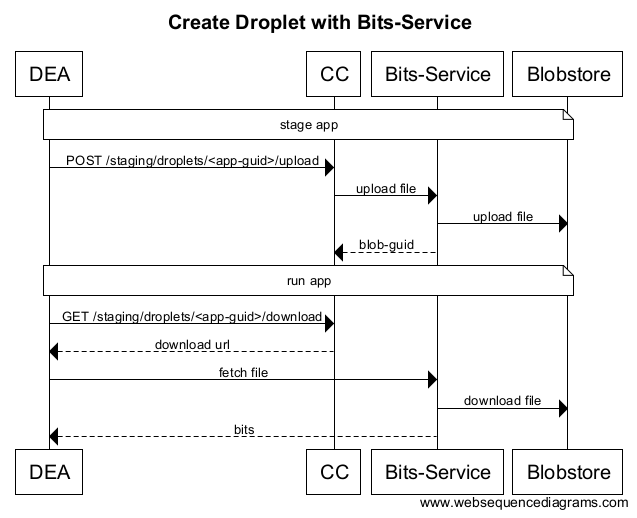
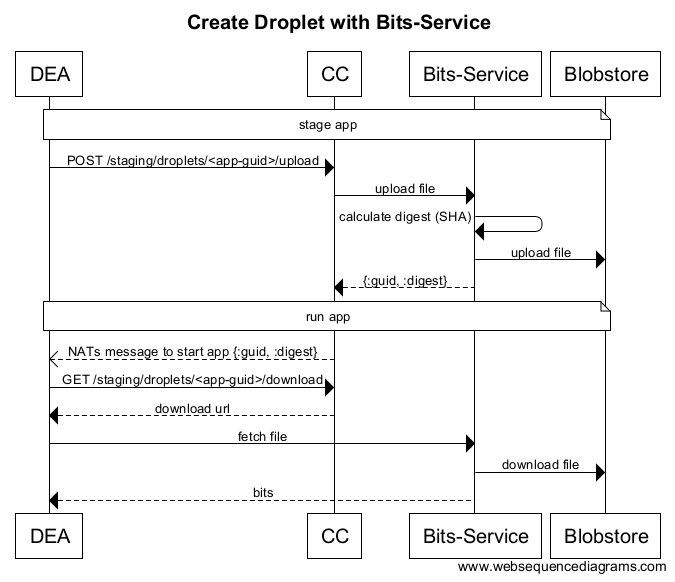
Response to POST /droplets includes the digest

Changed region(s): [[0.0, 0.0, 0.9843, 0.9884], [0.3579, 0.8031, 0.4176, 0.8649]]

diff --git a/spec/unit/routes/droplets_spec.rb b/spec/unit/routes/droplets_spec.rb
@@ -18,6 +18,8 @@ module BitsService
         Rack::Test::UploadedFile.new(File.new(zip_filepath))
       end
 
+      let(:zip_file_sha) { Digester.new.digest_path(zip_file) }
+
       let(:non_zip_file) do
         Rack::Test::UploadedFile.new(Tempfile.new('foo'))
       end
@@ -83,6 +85,8 @@ module BitsService
 
           json = MultiJson.load(last_response.body)
           expect(json['guid']).to eq(guid)
+          expect(json['digest']).to be
+          expect(json['digest']).to eq(zip_file_sha)
         end
 
         it 'instantiates the upload params decorator with the right arguments' do
@@ -101,6 +105,23 @@ module BitsService
           allow_any_instance_of(Helpers::Upload::Params).to receive(:upload_filepath).and_return(zip_filepath)
           post '/droplets', upload_body, headers
           expect(File.exist?(zip_filepath)).to be_falsy
+        end
+
+        context 'when an empty file is being uploaded' do
+          let(:zip_filepath) do
+            path = File.join(Dir.mktmpdir, zip_filename)
+            TestZip.create(path, 1, 0)
+            path
+          end
+
+          it 'returns json with metadata about the upload' do
+            post '/droplets', upload_body, headers
+
+            json = MultiJson.load(last_response.body)
+            expect(json['guid']).to eq(guid)
+            expect(json['digest']).to be
+            expect(json['digest']).to eq(zip_file_sha)
+          end
         end
 
         context 'when no file is being uploaded' do

diff --git a/lib/bits_service/routes/droplets.rb b/lib/bits_service/routes/droplets.rb
@@ -9,8 +9,10 @@ module BitsService
           fail Errors::ApiError.new_from_details('DropletUploadInvalid', 'a file must be provided') if uploaded_filepath.to_s == ''
 
           guid = SecureRandom.uuid
+          digest = Digester.new.digest_path(uploaded_filepath)
+
           droplet_blobstore.cp_to_blobstore(uploaded_filepath, guid)
-          json 201, { guid: guid }
+          json 201, { guid: guid, digest: digest }
         ensure
           FileUtils.rm_f(uploaded_filepath) if uploaded_filepath
         end
